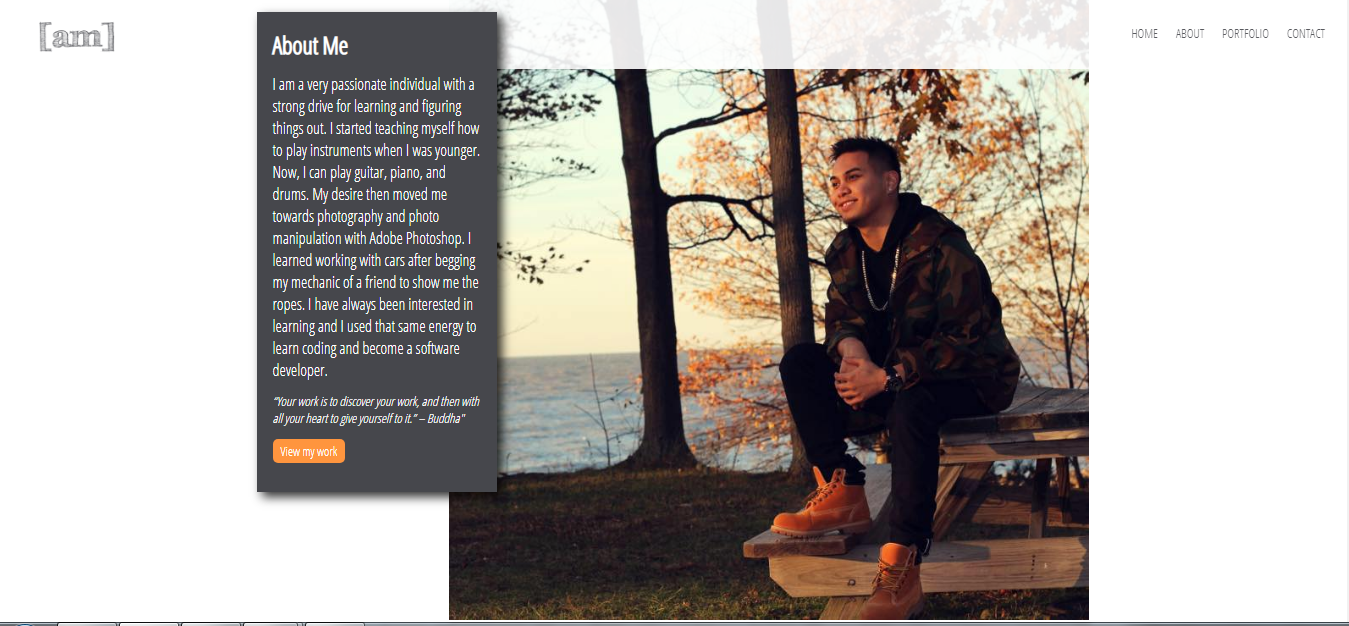
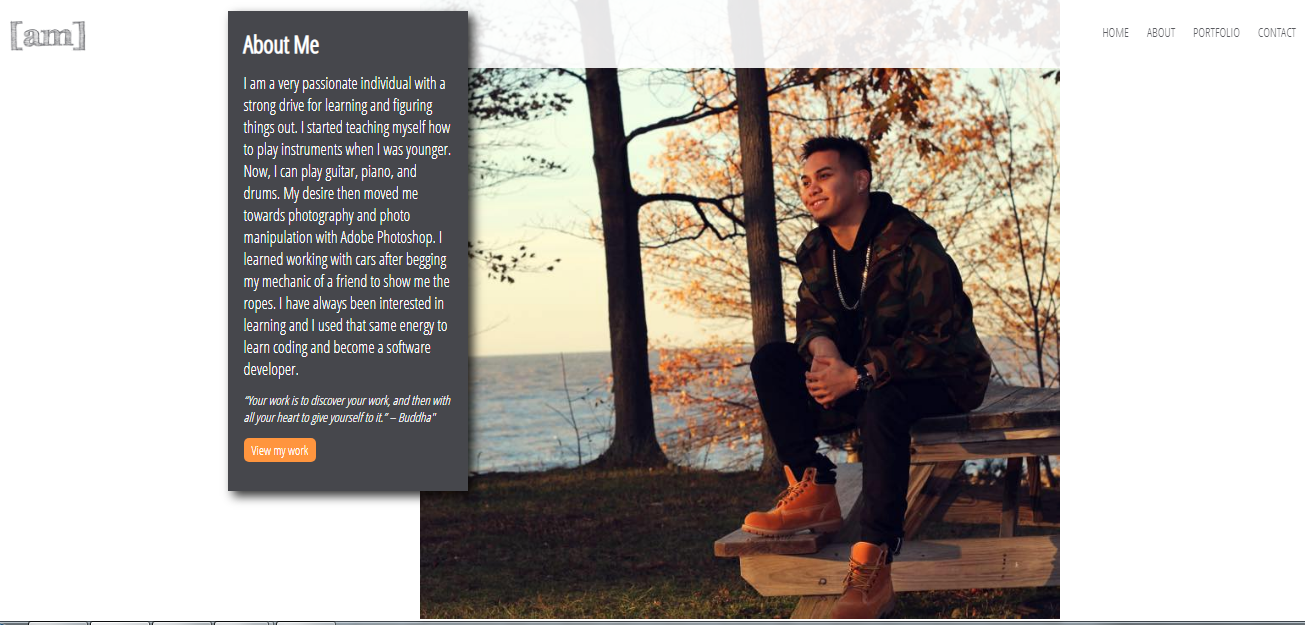
Changed fonts and added box shadow

diff --git a/index.html b/index.html
@@ -13,9 +13,6 @@
     <!-- FONTS -->
     <link rel="stylesheet" href="https://use.fontawesome.com/releases/v5.7.2/css/all.css"
         integrity="sha384-fnmOCqbTlWIlj8LyTjo7mOUStjsKC4pOpQbqyi7RrhN7udi9RwhKkMHpvLbHG9Sr" crossorigin="anonymous">
-    <link href="https://fonts.googleapis.com/css?family=Roboto" rel="stylesheet">
-    <link href="https://fonts.googleapis.com/css?family=Abril+Fatface" rel="stylesheet">
-    <link href="https://fonts.googleapis.com/css?family=Open+Sans+Condensed:300" rel="stylesheet">
 
     <!-- TITLE / STYLE -->
     <title>Alden Molina Portfolio | Software Developer</title>
@@ -42,16 +39,16 @@
     <header id="showcase">
         <div class="column1">
             <a href="#about">
-                <img src="img/Name.png">
+                <h1>alden molina</h1>
             </a>
         </div>
         <div class="column2">
             <p class="bar">l</p>
         </div>
         <div class="column3">
-            <h1 class="code">code.</h1>
-            <h1 class="create">create.</h1>
-            <h1 class="cultivate">cultivate.</h1>
+            <h2 class="code">code.</h2>
+            <h2 class="create">create.</h2>
+            <h2 class="cultivate">cultivate.</h2>
             <p>Motivated full-stack junior software developer. Experience with creating professionally programmed
                 applications with emphasis on team-oriented dynamics. Interest in modern and contemporary designs, and
                 innovative programming.</p>
@@ -71,7 +68,7 @@
                 learning and I used that same energy to learn coding and become a software developer.</p>
             <p class="quote"><em>“Your work is to discover your work, and then with all your heart to give yourself to
                     it.” – Buddha"</em></p>
-            <a href="#portfolio">View my work</a>
+            <a href="#portfolio" class="button2">View my work</a>
         </article>
         <img src="img/AboutMe.jpg">
     </section>
@@ -82,27 +79,24 @@
             <article class=portfolioA>
                 <div class=portfolioA-text>
                     <h3>Python Web Crawler</h3>
-                    <p>Lorem ipsum dolor, sit amet consectetur adipisicing elit. Amet ea unde obcaecati, dolorem
-                        voluptates
-                        natus deserunt cum consequatur et perferendis.</p>
+                    <p>Developed a web spider application that systematically browses the internet for websites and
+                        compiles it into a database using SQL. Gained understanding of processing and creating databases
+                        with SQL, and retrieving and collecting data using Python.</p>
                 </div>
                 <a href="https://github.com/aldenmolina/PythonCrawler" target="_blank"><img src="img/spider.png"></a>
             </article>
             <article class=portfolioA>
                 <div class=portfolioA-text>
                     <h3>Portfolio Web Design</h3>
-                    <p>Lorem ipsum dolor, sit amet consectetur adipisicing elit. Amet ea unde obcaecati, dolorem
-                        voluptates
-                        natus deserunt cum consequatur et perferendis.</p>
+                    <p>Web design development with use of traditional front-end programming techniques.</p>
                 </div>
                 <a href="https://github.com/aldenmolina/Portfolio" target="_blank"><img src="img/portfolio.png"></a>
             </article>
             <article class=portfolioA>
                 <div class=portfolioA-text>
                     <h3>Virtual Pets Amok</h3>
-                    <p>Lorem ipsum dolor, sit amet consectetur adipisicing elit. Amet ea unde obcaecati, dolorem
-                        voluptates
-                        natus deserunt cum consequatur et perferendis.</p>
+                    <p>Programmed a game in the console application using C#. Extensive use of Object Oriented
+                        Programming concepts in a team environment.</p>
                 </div>
                 <a href="https://github.com/anegronjr/VirtualPetsAmok" target="_blank"><img src="img/pets.png"></a>
             </article>
@@ -145,16 +139,19 @@
     <!-- Section: Contact-->
     <section id="contact">
         <div class="contact-text">
-            <h2>Contact Me</h2>
+            <h2>Get in touch!</h2>
             <p>If you have any questions or ideas, I would love to hear them!</p>
-            <div class="contact-icons">
-                <i class="far fa-envelope fa-2x"></i>
-                <i class="fab fa-linkedin-in fa-2x"></i>
-                <i class="fab fa-github-alt fa-2x"></i>
-            </div>
-            <p class="quote"><em>“To effectively communicate, we must realize that we are all different in the way we perceive the
+
+            <p class="quote"><em>“To effectively communicate, we must realize that we are all different in the way we
+                    perceive the
                     world and use this understanding as a guide to our communication with others.”
                     – Tony Robbins</em></p>
+            <div class="contact-icons">
+                <a href="mailto:aj.molina092@gmail.com" target="_top"><i class="far fa-envelope fa-2x"></i></a>
+                <a href="https://linkedin.com/in/aldenmolina" target="_blank"><i
+                        class="fab fa-linkedin-in fa-2x"></i></a>
+                <a href="https://github.com/aldenmolina" target="_blank"><i class="fab fa-github-alt fa-2x"></i></a>
+            </div>
         </div>
     </section>
 
@@ -162,5 +159,9 @@
     <footer id="main-footer">
         <p>Designed by Alden Molina, 2019</p>
     </footer>
+
+    <!-- SCRIPTS -->
+    <script src="https://code.jquery.com/jquery-3.3.1.min.js"
+        integrity="sha256-FgpCb/KJQlLNfOu91ta32o/NMZxltwRo8QtmkMRdAu8=" crossorigin="anonymous"></script>
 
     <script src="js/main.js"></script>

diff --git a/css/style.css b/css/style.css
@@ -1,3 +1,9 @@
+@import url('https://fonts.googleapis.com/css?family=Abril+Fatface');
+@import url('https://fonts.googleapis.com/css?family=Abril+Fatface');
+@import url('https://fonts.googleapis.com/css?family=Open+Sans+Condensed:300');
+
+
+
 /* Clear margin and padding */
 * {
     margin: 0;
@@ -10,7 +16,7 @@
 
 /* main style */
 html, body {
-    font-family: 'Roboto', sans-serif;
+    font-family: 'Open Sans Condensed', sans-serif;
     line-height: 1.4;
 }
 
@@ -30,7 +36,7 @@ p {
     background-color: white;
     color: #46474C;
     justify-content: space-between;
-    z-index: 1;
+    z-index: 2;
     padding: 0.5rem;
 }
 
@@ -77,16 +83,20 @@ p {
     max-width: 1000px;
 }
 
-.column1 img {
+.column1 h1 {
     transform: rotate(-90deg);
     height: 2.5rem;
-    margin-top: 8rem;
-    margin-right: -6rem;
     transition: 2s ease-out;
+    font-family: 'Open Sans Condensed';
+    font-size: 2.5rem;
+    color: #46474C;
+    animation-name: name;
+    animation-duration: 3s;
+    animation-fill-mode: forwards;
 }
 
-.column1 img:hover {
-    margin-top: 14rem;
+.about:hover {
+    margin-top: 18rem;
     transition: 1.5s;
 }
 
@@ -102,12 +112,12 @@ p {
 .column3 {
     display: flex;
     flex-direction: column;
-    justify-content: space-around;
+    justify-content: space-between  ;
     color: #46474C;
     padding: 0 0 0 5rem;
 }
 
-.column3 h1 {
+.column3 h2 {
     font-family: 'Abril Fatface';
     font-size: 3rem;
 }
@@ -174,6 +184,7 @@ p {
     margin-right: -3rem;
     height: 30rem;
     z-index: 1;
+    animation-duration:
 }
 
 .columna .quote {
@@ -211,27 +222,30 @@ p {
 .portfolio2 {
     display: flex;
     flex-direction: column;
+    justify-content: center;
     text-align: right;
 }
 
 .portfolioA {
     display: flex;
+    justify-content: center;
 }
 
 .portfolioA-text {
     max-width: 15rem;
-    margin: 1rem 1rem 0 1rem;
+    margin: 2.6rem 2rem 0 1rem;
 }
+
 .portfolioA img {
     max-height: 5rem;
     border-radius: 10px;
-    margin-top: 2rem;
-    margin-right: 6rem;
+    margin-top: 3rem;
     transition: 0.3s ease-out;
+    box-shadow: 5px 5px 15px rgba(0,0,0,0.8);
 }
 
 .portfolioA img:hover {
-    max-height: 6rem;
+    max-height: 9rem;
     transition: 0.3s;
 }
 
@@ -247,6 +261,7 @@ p {
     color: white;
     padding: 1rem;
     margin-top: 3rem;
+    box-shadow: 5px 5px 15px rgba(0,0,0,0.8);
 }
 .skills h3 {
     color: #ff953e;
@@ -273,6 +288,12 @@ p {
 .icons i {
     color: #46474C;
     margin-left: 0.5rem;
+    transition: 0.3s ease-out;
+}
+
+.icons i:hover {
+    font-size: 2.3rem;
+    transition: 0.3s;
 }
 
 /* Section: Contact */
@@ -289,12 +310,36 @@ p {
     padding: 1rem;
 }
 
+.contact-icons {
+    display: flex;
+}
+
 .contact-icons i {
     margin: 0.3rem;
+    color: #46474C;
+    transition: 0.3s ease-out;
+}
+
+.contact-icons i:hover {
+    font-size: 2.3rem;
+    transition: 0.3s;
 }
 
 
 /* Animations */
+@keyframes name {
+    0% {
+        opacity: 0;
+        margin-right: 3rem;
+        margin-top: 18rem;
+    }
+    100% {
+        opacity: 1;
+        margin-right: -4rem;
+        margin-top: 5rem;
+    }
+}
+
 @keyframes code {
     0% {
         margin-left: 30rem;
@@ -336,6 +381,24 @@ p {
     100% {
         margin-top: 0;
         opacity: 1;
+    }
+}
+
+@keyframes columna {
+    0% {
+        margin-right: 30rem;
+    }
+    100% {
+        margin-right: -3rem;
+    }
+}
+
+@keyframes about-image {
+    0% {
+        margin-left: 30rem;
+    }
+    100% {
+        margin-left: 0;
     }
 }
 

diff --git a/js/main.js b/js/main.js
@@ -9,7 +9,7 @@ window.addEventListener('scroll', function () {
 
 
 // Smooth Scrolling
-$('#navbar a, .button').on('click', function (event) {
+$('#navbar a, .button, .button2').on('click', function (event) {
   if (this.hash !== '') {
     event.preventDefault();
 
@@ -29,9 +29,11 @@ $(document).ready(function () {
   var scroll_pos = 0;
   $(document).scroll(function () {
     scroll_pos = $(this).scrollTop();
-    if (scroll_pos > 1350) {
-      $("nav h1").css('color', 'white');
-      $("nav a").css('color', 'white');
+    if (scroll_pos > 1000) {
+      $("columna").css('animation-name', 'columna');
+    }
+    else {
+      
     }
 
   }
